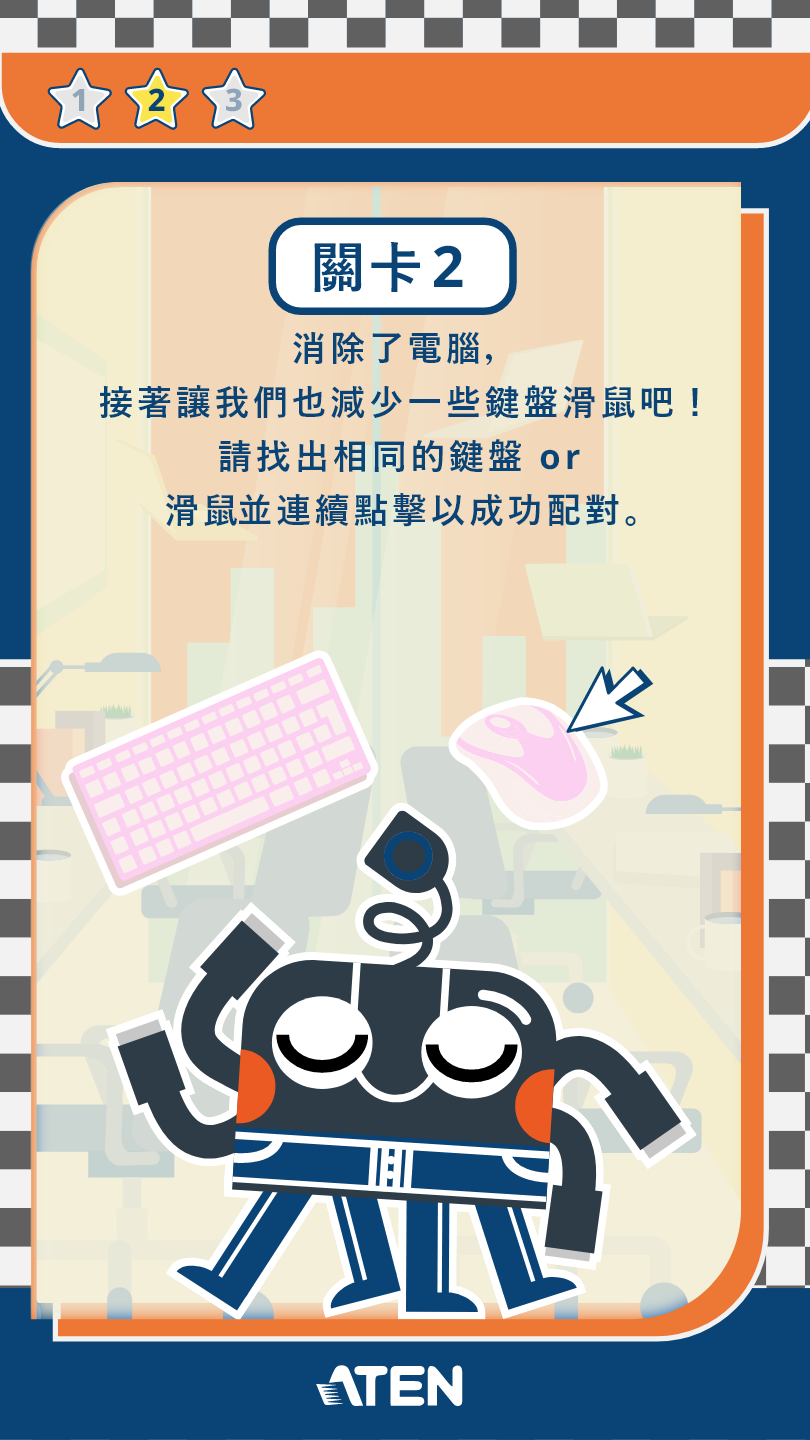
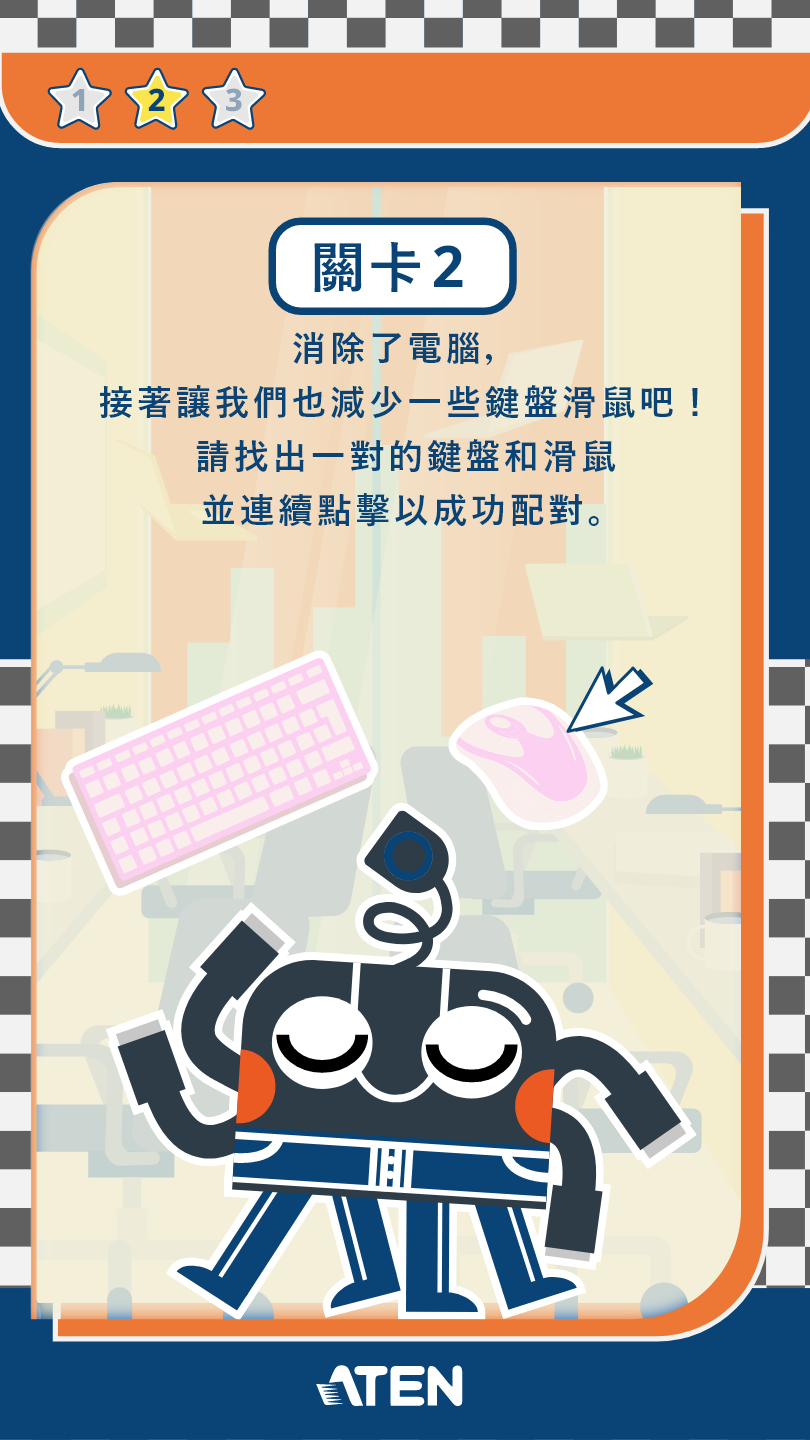
001

Changed region(s): [[0.1852, 0.2812, 0.7716, 0.375]]

diff --git a/program/kvm_game/kvmgame.html b/program/kvm_game/kvmgame.html
@@ -1012,7 +1012,7 @@
     var sayAttr = [
         { name: "", voice: 2, t: 2000, act: nothing, bg: "faceK01.png", c: "Let me see see 你的眼力多好！" },
         { name: "", voice: 3, t: 2000, act: gameStartNow, bg: "faceK02.png", c: "記得連續點擊你看到的兩個相同的電腦，點擊正確才會算分喔！" },
-        { name: "", voice: 4, t: 2000, act: gameStartNow, bg: "faceK03.png", c: "連續點擊你看到的兩個相同的鍵盤或滑鼠，把你的桌面恢復乾淨吧！" },
+        { name: "", voice: 4, t: 2000, act: gameStartNow, bg: "faceK03.png", c: "連續點擊一對的鍵盤和滑鼠，把你的桌面恢復乾淨吧！" },
         { name: "", voice: 5, t: 2000, act: gameStartNow, bg: "faceK04.png", c: "快來找我! 快看看我在哪" },
         { name: "", voice: 6, t: 2600, act: showGoToEndBtn, bg: "faceK05.png", c: "有了偶，就只需要用一組鍵盤滑鼠和一個螢幕就可以輕鬆在兩台電腦中切換，真是天下無敵方便呀！" },
     ]
